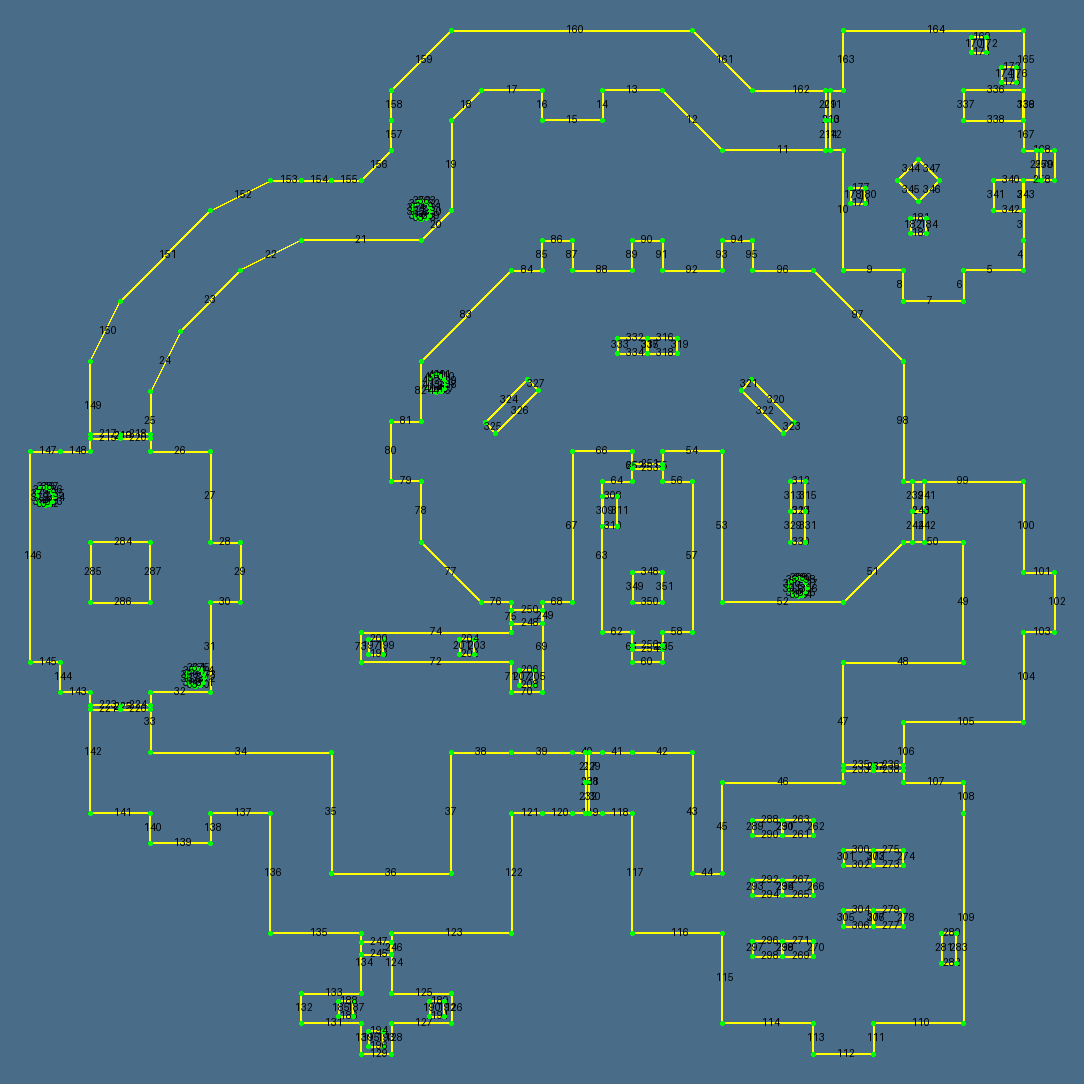
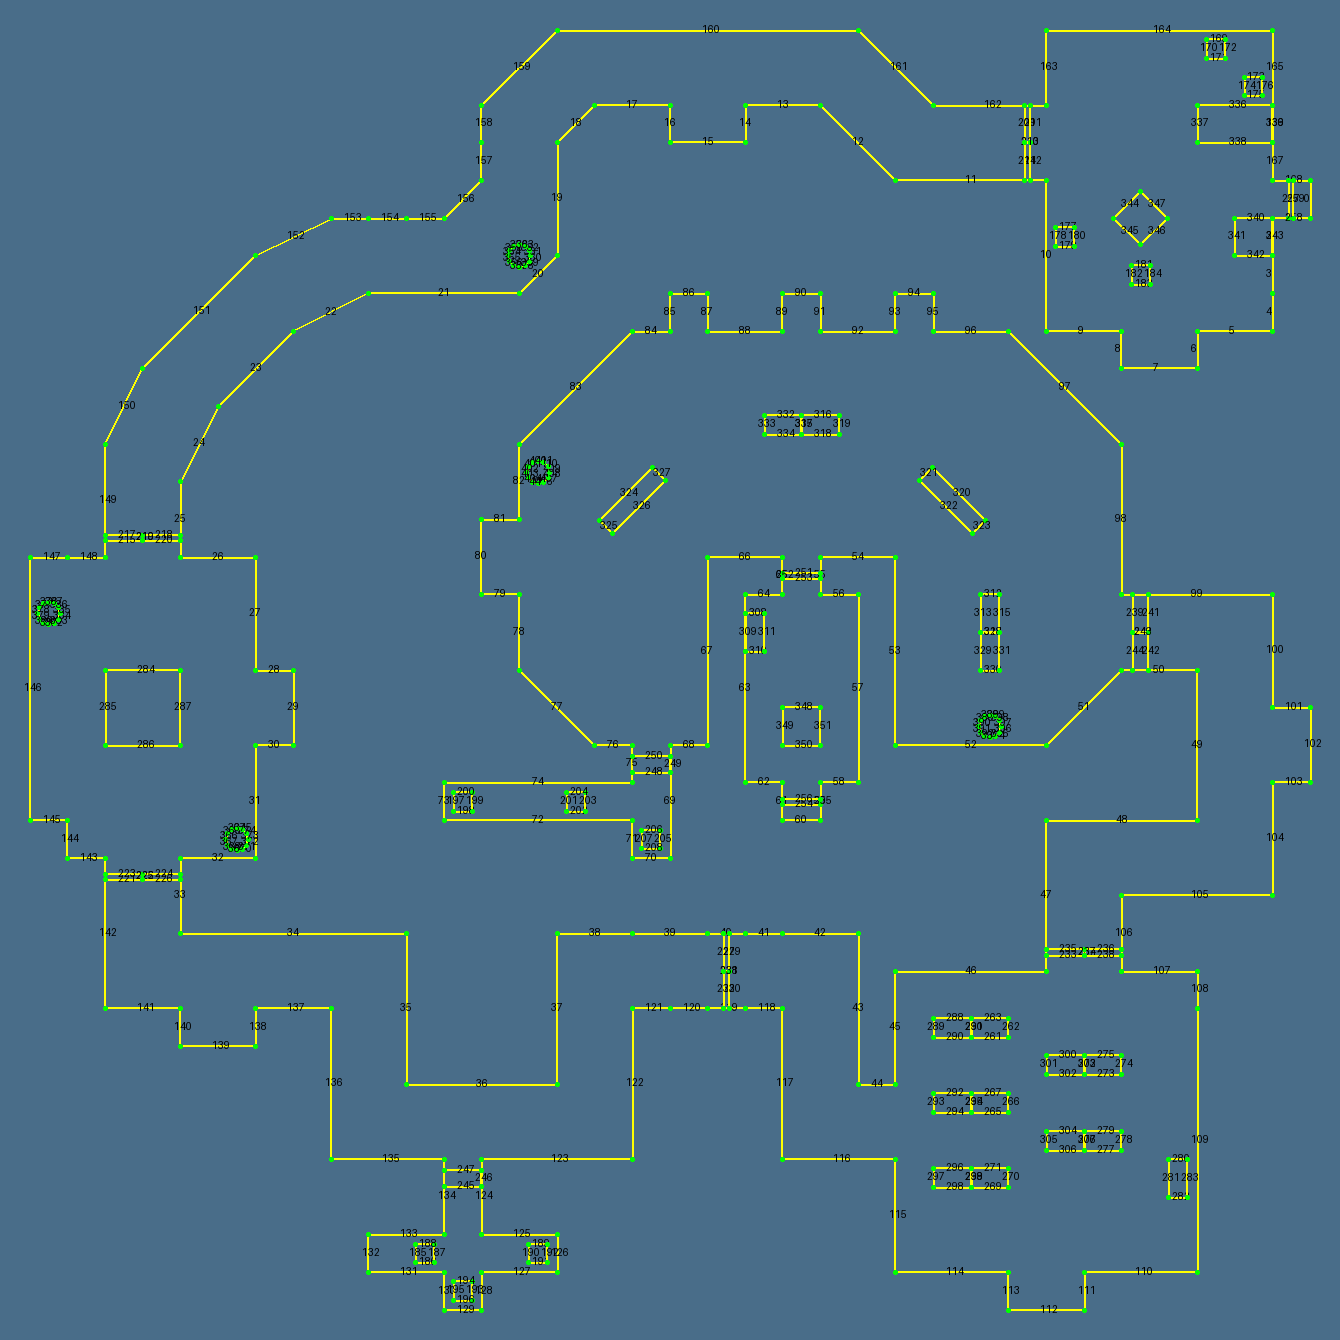
correct aspect ratio + increase resolution

diff --git a/src/drawMap.py b/src/drawMap.py
@@ -2,13 +2,15 @@ from PIL import Image, ImageDraw, ImageFont
 from ClassesB3D import LineB3D
 
 
-def draw_lines(lines: list[LineB3D], show=True, name=None, width=1024, frame=30):
+def draw_lines(lines: list[LineB3D], show=True, name=None, resolution=1280, frame=30):
     # Calculate min and max coordinates
     min_x = min(min(line.v1[0], line.v2[0]) for line in lines)
     max_x = max(max(line.v1[0], line.v2[0]) for line in lines)
     min_y = min(min(line.v1[1], line.v2[1]) for line in lines)
     max_y = max(max(line.v1[1], line.v2[1]) for line in lines)
-    height = int((max_y - min_y) / (max_x - min_x) * width)
+    ratio = (max_y - min_y) / (max_x - min_x)
+    height = int((resolution**2 * ratio)**0.5)
+    width = int(resolution**2/height)
 
     # Rescale coordinates
     def rescale(x, y):
